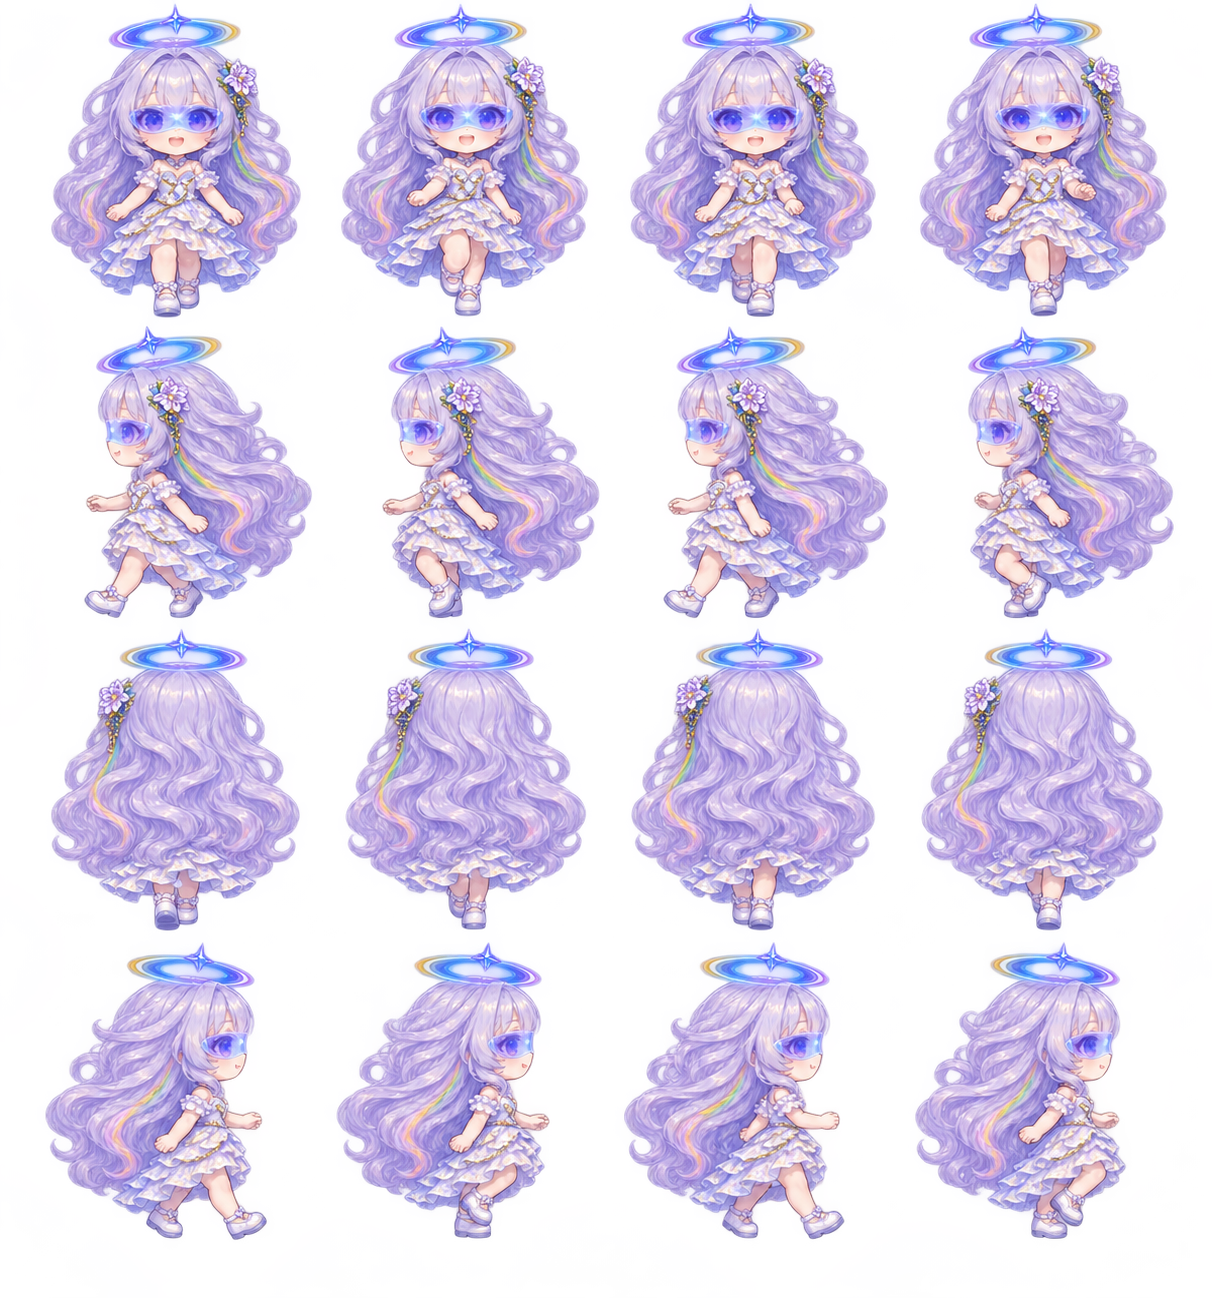
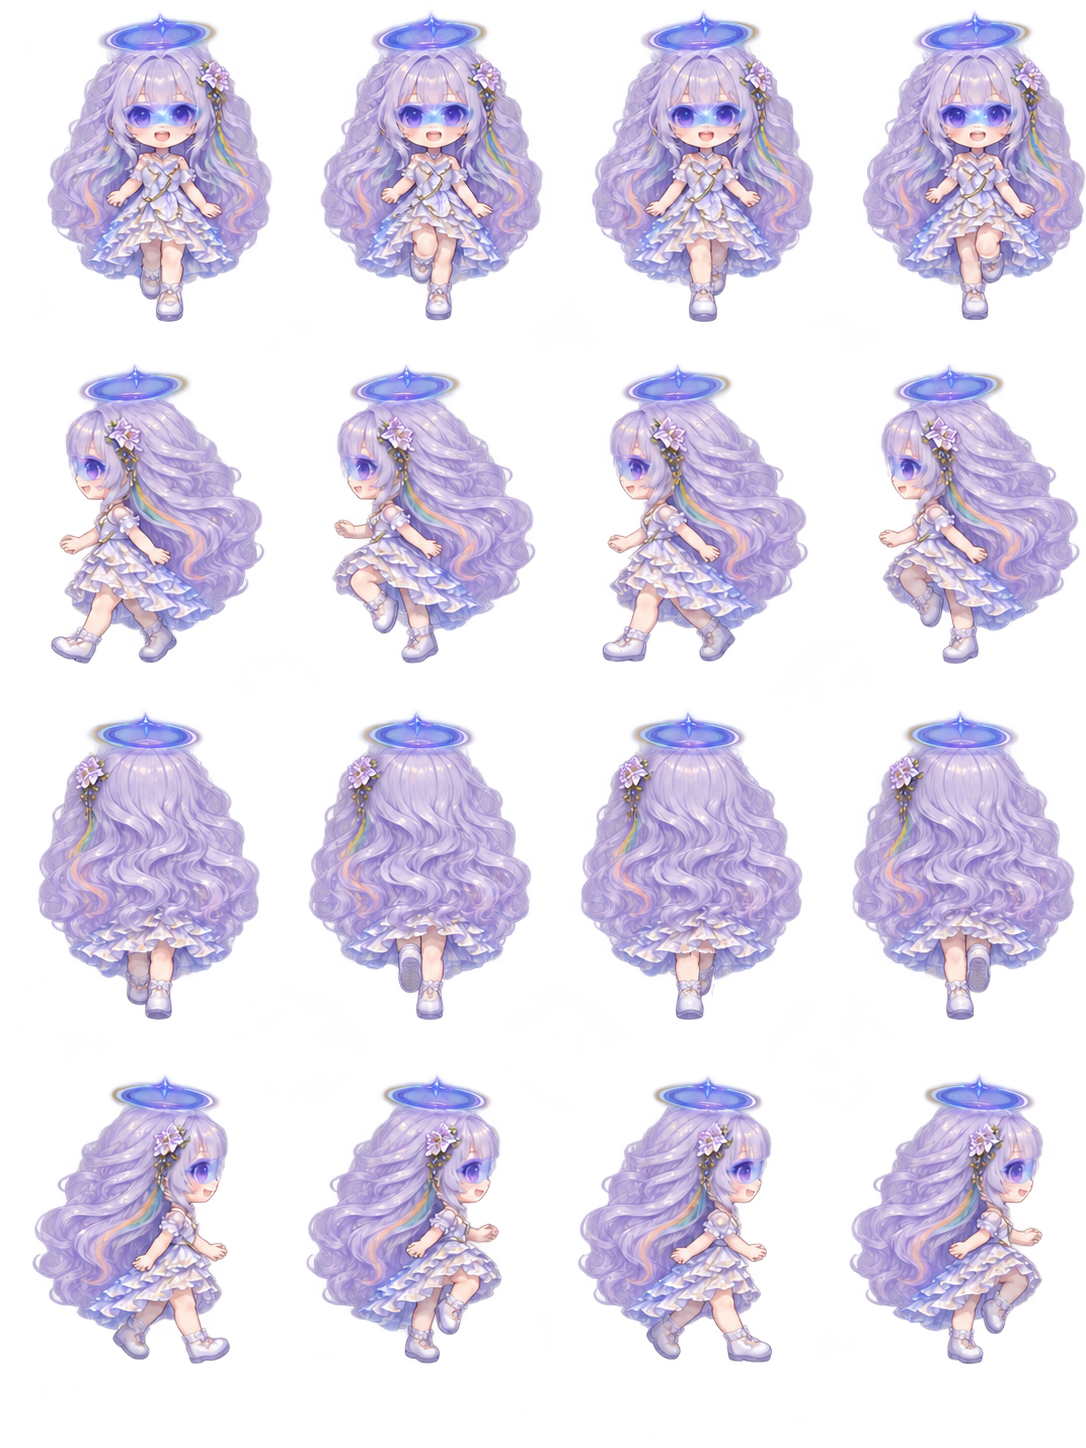
Match Gemini and Shan walking proportions to their standing art

diff --git a/developer/modules/luma-dsh-plugin/art/walk-keydrawings/prompts.md b/developer/modules/luma-dsh-plugin/art/walk-keydrawings/prompts.md
@@ -23,3 +23,19 @@ Model-specific instructions: Orange wavy full hair, small white daisy with navy 
 ## bai-shuangming-v1
 
 Model-specific instructions: Pale lavender blue white curls, blue butterfly hair ornaments and tiara, full layered white and periwinkle princess dress, light blue jeweled round-toe shoes, bright round blue eyes. Train trails behind while two little ankle shoes step out under flounces. Compact broad little body.
+
+## 吉米与端木嫣换装的站姿比例与脚步复查
+
+下列提示按两次生成顺序记录。通过原图复核后，吉米背面一格、端木嫣正背三格的裙下双腿按各自原画重新换位，保留头脸、装饰与服装。正面两套的着地顺序均为画面右、右、左、左。背面吉米同序，端木嫣为左、左、右、右。
+
+# gemini-v1
+
+Identity-preserve edit for an interactive anime office sprite sheet. The input shows her original standing portrait on the left and an earlier 4x4 draft on the right. Paint an entirely new clean 4-column × 4-row walking-only sprite atlas of EXACTLY SIXTEEN full-body images. Do not output the big sample portrait, grid, labels, text, shadow, background, props or extra decorations. Transparent alpha. The left portrait is the exact model sheet and the more important reference for face proportions, hair and outfit at every angle. The right sketch only demonstrates cell positions and cycle phases; its disproportionate overlarge bulbous head and shortened bodice must be corrected. Draw her at the original portrait's stylized small, full round anime-chibi head-to-body proportion. Preserve her sweet Q face and her short, gently bent legs. Set the additional height in her small but clearly defined bodice, layered skirt and actual short socks, not cartoonishly long adult legs. Keep every figure the same scale; consistent head, eye spacing, pelvis height, foot size. The full figure in each cell is about 240 units high, the chin is consistently near 104–106 units below the highest ornament. Apply that unit ruler mentally; don't draw it. The eye visor is wide translucent clear flat blue-purple sunglasses with both big violet eyes visible underneath. Use her own left reference's slender luminous blue-gold orbital halo with a star. Luminous pale silver-lilac long curls, one side flower and thin colored ribbons. White, lilac and pale blue long-back, short-front satin ruffle dress, fine gold trim, separate stockings and delicate pale slippers with little bows. See the slim ankles and original knee line, maintain her actual double-layer hem. The full measurement from the thin halo apex to chin should be 43–45% of height; halo sits close above the head. A little visible neck and bodice, and the right height of tiered dress will achieve that. Render row 1 straight FRONT walking toward the viewer. Row 2 strictly LEFT PROFILE facing screen left. Row 3 straight BACK walking away, only rear of hair visible. Row 4 strictly RIGHT PROFILE facing screen right. In every row the four columns respectively show left-foot contact, right-knee passing/up with opposite arm, right-foot contact (near/far legs really trade places), left-knee passing/up with opposite arm. Profile contacts should clearly show near leg alternately behind or ahead, using localized rear-leg shadow. Subtly sway skirt and hair with each half-step. Crisp separate fingers and boots readable as silhouettes. Every whole person, accessory and shoe fully visible, centered within its own equally sized cell, generous margins, separate complete silhouettes with identical ground level. Match the watercolor-gouache cel finish, delicate colored linework, highlights, palette and embroidered details of the original, with only minimal clothing movement due to walking.
+
+# shan-v1
+
+Identity-preserve edit for an interactive anime office sprite sheet. The input shows her original standing portrait on the left and an earlier 4x4 draft on the right. Paint an entirely new clean 4-column × 4-row walking-only sprite atlas of EXACTLY SIXTEEN full-body images. Do not output the big sample portrait, grid, labels, text, shadow, background, props or extra decorations. Transparent alpha. The left portrait is the exact model sheet and the more important reference for face proportions, hair and outfit at every angle. The right sketch only demonstrates cell positions and cycle phases; its disproportionate overlarge bulbous head and shortened bodice must be corrected. Draw her at the original portrait's stylized small, full round anime-chibi head-to-body proportion. Preserve her sweet Q face and her short, gently bent legs. Set the additional height in her small but clearly defined bodice, layered skirt and actual short socks, not cartoonishly long adult legs. Keep every figure the same scale; consistent head, eye spacing, pelvis height, foot size. The full figure in each cell is about 240 units high, the chin is consistently near 104–106 units below the highest ornament. Apply that unit ruler mentally; don't draw it. Duanmu Yan wears natural pink cat ears, a single delicate curling forelock, long voluminous wavy pink hair with tiny braid, her blue iridescent shell hairclip, two fine straight hot-pink hairpins opposite, large mauve eyes, cream blush long-sleeve lace dress with central bows, refined layered frilled short skirt, pale socks and pink Mary Janes. The full measurement from topmost curling forelock to chin must be 42–45% of her height, by giving her original-sized small facial features and original top-of-head/hair volume; the left reference already has exactly the right face. Keep her fine single loose front hair curl and delicate clip/braids. Render row 1 straight FRONT walking toward the viewer. Row 2 strictly LEFT PROFILE facing screen left. Row 3 straight BACK walking away, only rear of hair visible. Row 4 strictly RIGHT PROFILE facing screen right. In every row the four columns respectively show left-foot contact, right-knee passing/up with opposite arm, right-foot contact (near/far legs really trade places), left-knee passing/up with opposite arm. Profile contacts should clearly show near leg alternately behind or ahead, using localized rear-leg shadow. Subtly sway skirt and hair with each half-step. Crisp separate fingers and boots readable as silhouettes. Every whole person, accessory and shoe fully visible, centered within its own equally sized cell, generous margins, separate complete silhouettes with identical ground level. Match the watercolor-gouache cel finish, delicate colored linework, highlights, palette and embroidered details of the original, with only minimal clothing movement due to walking.
+
+# Both / second pass
+
+Edit this exact 4x4 transparent game sprite sheet, identity-preserve. Repair the walking loop by correcting ONLY the limb poses. This is a game animation bug: after two beats the leading foot and forward arm must change sides. Treat the image as sixteen cels, rows exactly as shown. Keep the original correct contact and raised-passing key poses in columns 1 and 2. In column 3 the opposite leg must be in front compared with column 1, and the opposite arm moves forward. In column 4 the opposite knee must lift compared with column 2, the other shoe supports. FRONT row 1 and BACK row 3: mirror only the entire legs and shoes below the hem about the middle of the pelvis, i.e. in columns 3 and 4 swap the LEFT and RIGHT positions mid-stride relative to columns 1 and 2. A reviewer must see alternating shoe soles switching from the left of the silhouette to the right, never four right-foot supports. Column 1 near foot, column 2 passing through on that same planted foot, column 3 opposite contact foot, column 4 passing through on this other planted foot. Profiles rows 2 and 4: the camera-near leg is in front of the shadowed far leg in column 1 and trailing in column 3; in column 2 the near knee is raised, in column 4 the shadowed far knee is raised. Rows are strictly front, screen LEFT profile, true back, screen RIGHT profile. Preserve her exact full-size 2.25-head-tall chibi anatomy: uppermost hair or halo to chin is 43–45% of head-to-toe height. Keep the full delicate palette, the expressive small face, short knees/ankles, fine highlights and decorations. Match original volume and length of loose hair, fabric drape and lace. Preserve her exact upper body and original facial landmarks, size and proportions in every cell. Keep 16 complete separate figures, centered and unclipped with four equal transparent rows and columns on true alpha, no background, outlines outside silhouette, labels, guide marks, or added graphics.

diff --git a/docs/scene-verification.md b/docs/scene-verification.md
@@ -19,6 +19,8 @@
 
 八位伙伴共有 56 个方向图集。陆弥两套衣装、吉米以及另外八套造型重绘了四向步态。每套用十六格原画区分支撑脚和迈步脚。鲸鱼娘的两套外观与端木嫣原装沿用已校准的步态。在 Windows 原生桌宠、卧室和办公室中使用同一套图集。[四向修改前后动图](images/walk-proportions.gif) · [八位伙伴走路](images/walk-preview.gif)
 
+把全身按鞋底对齐到同一高度，从最高的头饰量到下巴，吉米四格正面行走占全高的 43.2%–43.6%，待机占 40.6%。端木嫣换装行走占 44.4%–44.8%，待机占 40.4%。核对侧视和背视时也分别检查了左右脚交换与裙摆的遮挡。
+
 床边的手机按钮位于床脚，角色的答复出现在另一侧。[床边实拍](images/bedroom-interaction-062.jpg)
 
 ## 0.6.1 验收记录

diff --git a/developer/modules/luma-dsh-plugin/art/pose-prompts.md b/developer/modules/luma-dsh-plugin/art/pose-prompts.md
@@ -28,4 +28,4 @@ Identity-preserving illustrated game sprite atlas, matching the supplied referen
 
 白霜命原装的参考保留冰蓝渐变长卷发、蝶饰和分层短裙。龙妈妈原装保留白紫褶裙与金链，换装保留绣金深绿斗篷与象牙裙，两套均保留角、尾和厚卷发。这三套用了各自的站姿正面和坐姿背面作为身份参照，要求头与头饰约占全高的 43%，小步幅、窄肩和交替的手脚动作与上表图格顺序一致。
 
-绯洛、端木嫣换装、克劳德两套和白霜命换装的逐套提示见 [行走造型提示](walk-keydrawings/prompts.md)。
+绯洛、端木嫣换装、克劳德两套和白霜命换装的逐套提示，以及吉米、端木嫣换装最终采纳的比例微调与承重脚修订见 [行走造型提示](walk-keydrawings/prompts.md)。
